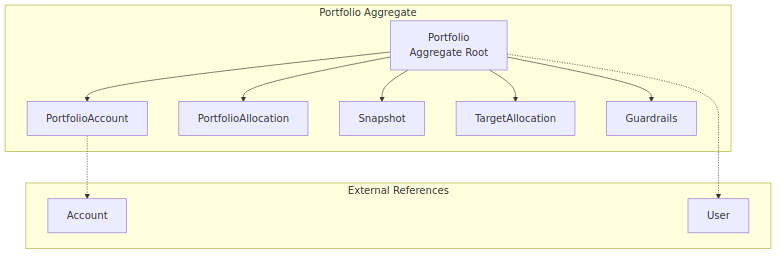
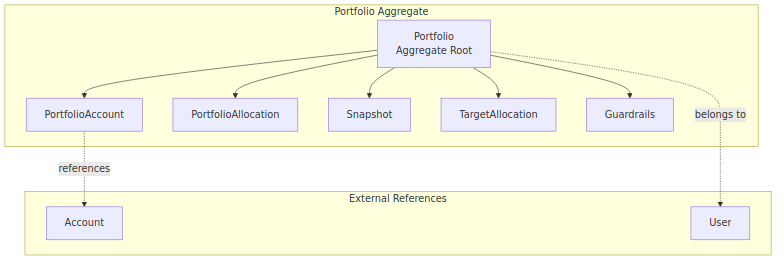
fix: correct Mermaid syntax for edge labels in aggregate boundaries

diff --git a/docs/architecture/01-architecture-design/01-domain-models/01-portfolio-domain.md b/docs/architecture/01-architecture-design/01-domain-models/01-portfolio-domain.md
@@ -95,8 +95,8 @@ graph TB
         U[User]
     end
     
-    PA -.-> A : references
-    P -.-> U : belongs to
+    PA -.->|references| A
+    P -.->|belongs to| U
 ```
 
 ---
